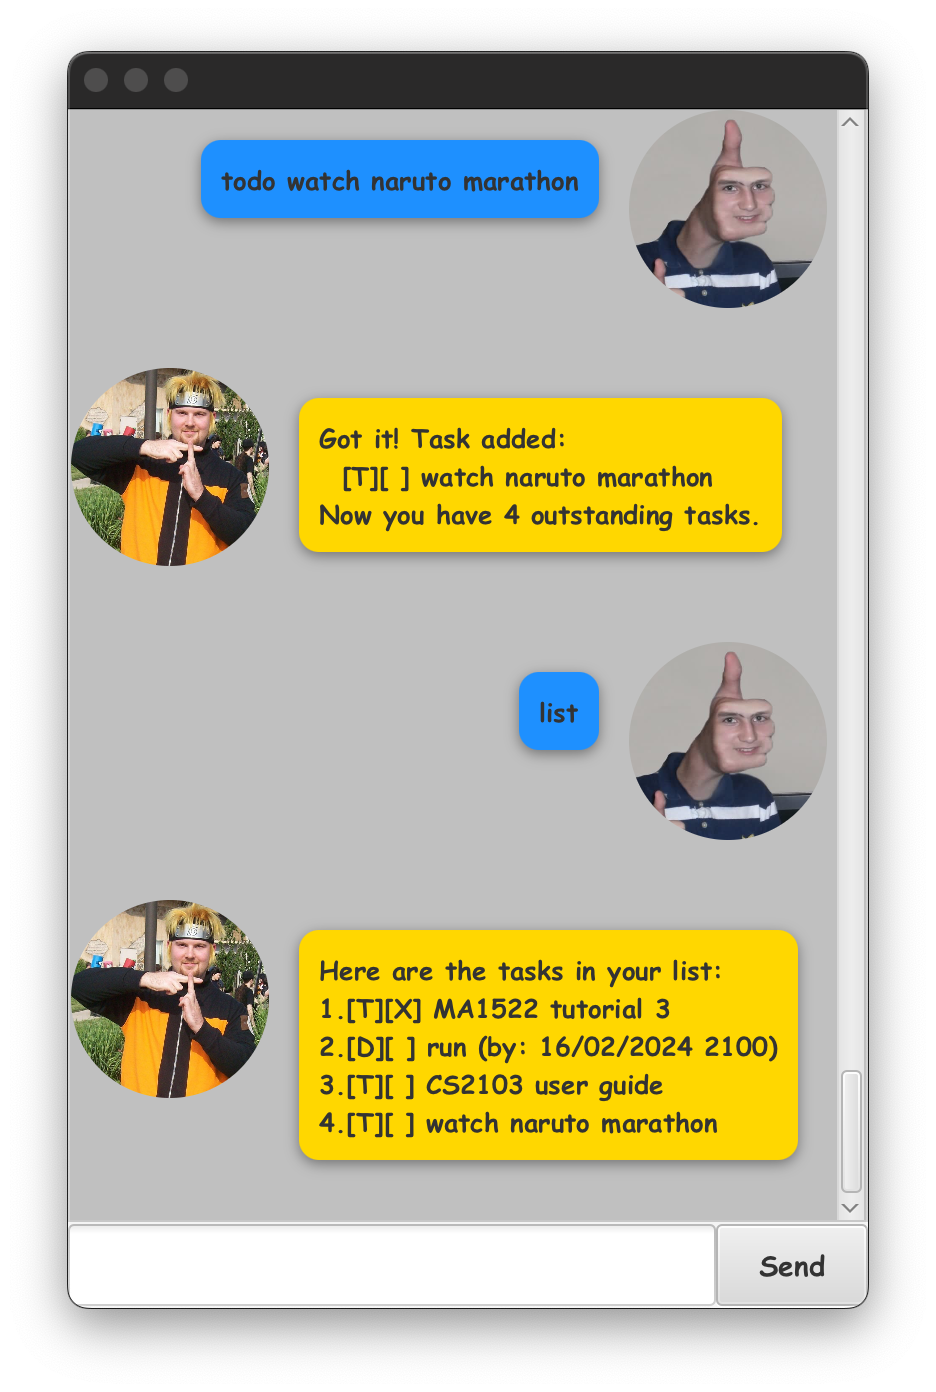
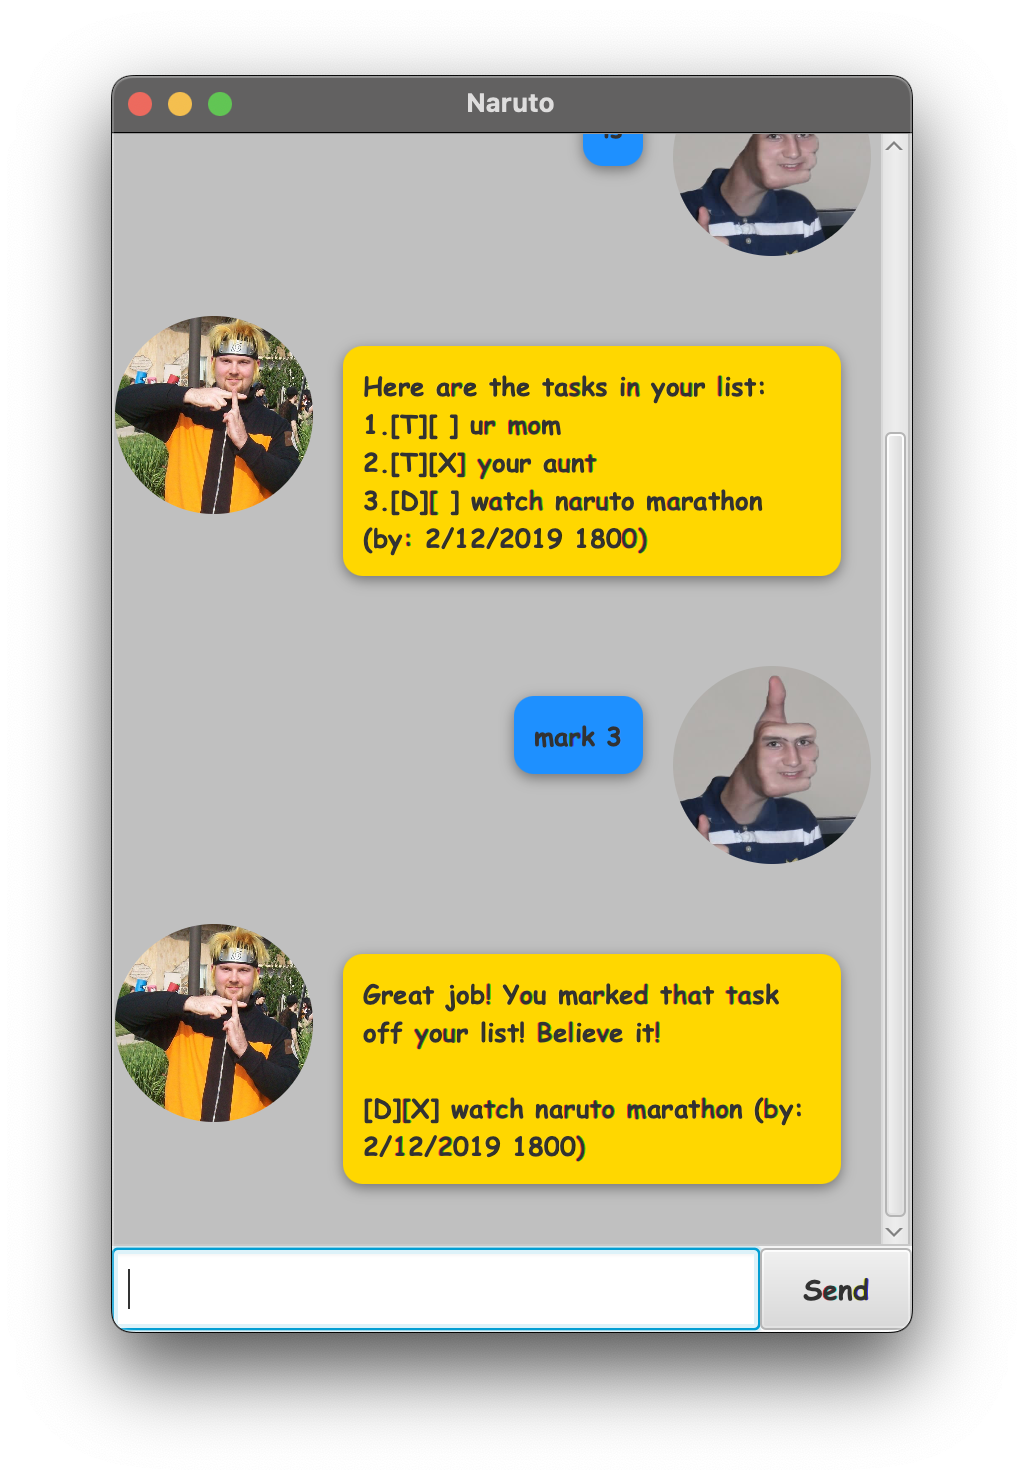
Update README.md

diff --git a/src/main/java/Main.java b/src/main/java/Main.java
@@ -21,6 +21,7 @@ public class Main extends Application {
             AnchorPane ap = fxmlLoader.load();
             Scene scene = new Scene(ap);
             stage.setScene(scene);
+            stage.setTitle("Naruto");
             fxmlLoader.<MainWindow>getController().setNaruto(naruto);
             stage.show();
         } catch (IOException e) {

diff --git a/docs/README.md b/docs/README.md
@@ -8,34 +8,33 @@ Naruto is a **desktop app for managing todos, events, and deadlines, optimized f
 
 1. Ensure you have Java `11` or above installed in your Computer.
 
-1. Download the latest `naruto.jar` from [here](https://github.com/itstrueitstrueitsrealitsreal/ip/releases).
+2. Download the latest `naruto.jar` from [here](https://github.
+   com/itstrueitstrueitsrealitsreal/ip/releases).
 
-1. Copy the file to the folder you want to use as the _home folder_ for Naruto.
+3. Copy the file to the folder you want to use as the _home folder_ for Naruto.
 
-1. Open a command terminal, `cd` into the folder you put the jar file in, and use the `java -jar naruto.jar` command to run the application.<br>
+4. Open a command terminal, `cd` into the folder you put the jar file in, and use the `java -jar naruto.jar` command to run the application.<br>
    A GUI similar to the below should appear in a few seconds. Note how the app contains some sample data.<br>
    ![Ui](./Ui.png)
 
-1. Type the command in the command box and press Enter to execute it. e.g. typing **`help`** and pressing Enter will open the help window.<br>
+5. Type the command in the command box and press Enter to execute it. e.g. typing **`help`** and pressing Enter will open the help window.<br>
    Some example commands you can try:
 
-    * `list` or `ls` : Lists all contacts.
+   * `list` or `ls` : Lists all contacts.
 
-    * `todo borrow book` or `td borrow book` : Adds a todo with the description `borrow book` to your list of tasks.
+   * `todo borrow book` or `td borrow book` : Adds a todo with the description `borrow book` to your list of tasks.
 
-    * `delete 3` : Deletes the 3rd task shown in the current list.
+   * `delete 3` : Deletes the 3rd task shown in the current list.
 
-    * `bye` or `bb` : Exits the app.
+   * `bye` or `bb` : Exits the app.
 
-1. Refer to the [Features](#features) below for details of each command.
+6. Refer to the [Features](#features) below for details of each command.
 
 --------------------------------------------------------------------------------------------------------------------
 
 ## Features
 
-<div markdown="block" class="alert alert-info">
-
-**:information_source: Notes about the command format:**<br>
+**Notes about the command format:**
 
 * Words in `UPPER_CASE` are the parameters to be supplied by the user.<br>
   e.g. in `deadline DESCRIPTION /by DD/MM/YYYY HHMM`, `NAME` is a parameter which can be used as `deadline naruto marathon /by 02/02/2020 0200`.
@@ -44,11 +43,10 @@ Naruto is a **desktop app for managing todos, events, and deadlines, optimized f
 
 * If you are using a PDF version of this document, be careful when copying and pasting commands that span multiple lines as space characters surrounding line-breaks may be omitted when copied over to the application.
 
-</div>
 
 ### Viewing help : `help`
 
-Shows a message explaning how to access the help page.
+Shows a message explaining how to access the help page.
 
 ![help message](./helpMessage.png)
 
@@ -97,9 +95,9 @@ Format: `list`
 
 Finds tasks whose descriptions contain any of the given keywords.
 
-Format: `find KEYWORD [MORE_KEYWORDS]`
+Format: `find KEYWORDS`
 
-* The search is case-sensitive. e.g `return` will not match `Return`
+* The search is case-sensitive. e.g. `return` will not match `Return`
 * The order of the keywords does not matter. e.g. `return book` will match `book return`
 * Only the description is searched.
 * Partial words will be matched e.g. `ret` will match `return`
@@ -136,19 +134,19 @@ Examples:
 
 * `mark 2` marks the 2nd task in the task list.
 
-### Unmarking a task : `unmark` or `um`
+### Unmark a task : `unmark` or `um`
 
-Unmarks a previously marked task at the specified index.
+Unmark a previously marked task at the specified index.
 
 Format: `unmark INDEX` or `um INDEX`
 
-* Unmarks the task at the specified `INDEX`.
+* Unmark the task at the specified `INDEX`.
 * The index refers to the index number shown in the displayed task list.
 * The index **must be a positive integer** 1, 2, 3, …
 
 Examples:
 
-* `unmark 2` unmarks the 2nd task in the task list.
+* `unmark 2` unmark the 2nd task in the task list.
 
 ### Sorting all tasks : `sort`
 
@@ -172,25 +170,21 @@ Naruto's data is saved automatically as a `.txt` file `[JAR file location]/src/l
 
 **Caution:**
 If your changes to the data file makes its format invalid, Naruto will discard all data and start with an empty data file at the next run. Hence, it is recommended to take a backup of the file before editing it.<br>
-Furthermore, certain edits can cause Naruto to behave in unexpected ways (e.g., if a value entered is outside of the acceptable range). Therefore, edit the data file only if you are confident that you can update it correctly.
-</div>
+Furthermore, certain edits can cause Naruto to behave in unexpected ways (e.g., if a value entered is outside the acceptable range). Therefore, edit the data file only if you are confident that you can update it correctly.
 
 ## Command summary
 
-Action | Format, Examples
---------|------------------
-**Todo** | `todo DESCRIPTION` or `td DESCRIPTION`<br> e.g., `todo return book`
-**Deadline** | `deadline DESCRIPTION /by DD/MM/YYYY HHMM` or `dl DESCRIPTION /by DD/MM/YYYY HHMM`<br> e.g., `deadline return book /by 2/12/2019 1800`
-**Event** | `event DESCRIPTION /from DD/MM/YYYY HHMM /to DD/MM/YYYY HHMM` or `e DESCRIPTION /from DD/MM/YYYY HHMM /to DD/MM/YYYY HHMM`<br> e.g., `event CS2103 Tutorial /from 2/02/2024 0800 /to 2/02/2024 0900`
-**List** | `list` or `ls`
-**Find** | `find KEYWORD [MORE_KEYWORDS]`<br> e.g., `find return book`
-**Delete** | `delete INDEX` or `rm INDEX`<br> e.g., `delete 3`
-**Mark** | `mark INDEX` or `mk INDEX`<br> e.g., `mark 2`
-**Unmark** | `unmark INDEX` or `um INDEX`<br> e.g., `unmark 2`
-**Sort** | `sort`
-**Help** | `help`
-<<<<<<< HEAD
-=======
+| Action       | Format, Examples                                                                                                                                                                                     |
+|--------------|------------------------------------------------------------------------------------------------------------------------------------------------------------------------------------------------------|
+| **Todo**     | `todo DESCRIPTION` or `td DESCRIPTION`<br> e.g., `todo return book`                                                                                                                                  |
+| **Deadline** | `deadline DESCRIPTION /by DD/MM/YYYY HHMM` or `dl DESCRIPTION /by DD/MM/YYYY HHMM`<br> e.g., `deadline return book /by 2/12/2019 1800`                                                               |
+| **Event**    | `event DESCRIPTION /from DD/MM/YYYY HHMM /to DD/MM/YYYY HHMM` or `e DESCRIPTION /from DD/MM/YYYY HHMM /to DD/MM/YYYY HHMM`<br> e.g., `event CS2103 Tutorial /from 2/02/2024 0800 /to 2/02/2024 0900` |
+| **List**     | `list` or `ls`                                                                                                                                                                                       |
+| **Find**     | `find KEYWORD [MORE_KEYWORDS]`<br> e.g., `find return book`                                                                                                                                          |
+| **Delete**   | `delete INDEX` or `rm INDEX`<br> e.g., `delete 3`                                                                                                                                                    |
+| **Mark**     | `mark INDEX` or `mk INDEX`<br> e.g., `mark 2`                                                                                                                                                        |
+| **Unmark**   | `unmark INDEX` or `um INDEX`<br> e.g., `unmark 2`                                                                                                                                                    |
+| **Sort**     | `sort`                                                                                                                                                                                               |
+| **Help**     | `help`                                                                                                                                                                                               |
 
 The structure of this user guide took heavy reference from the user guide of AB3, which can be found [here](https://se-education.org/addressbook-level3/UserGuide.html#features).
->>>>>>> a8da00a6d1708f45063e05ec64340f682bb3f596
